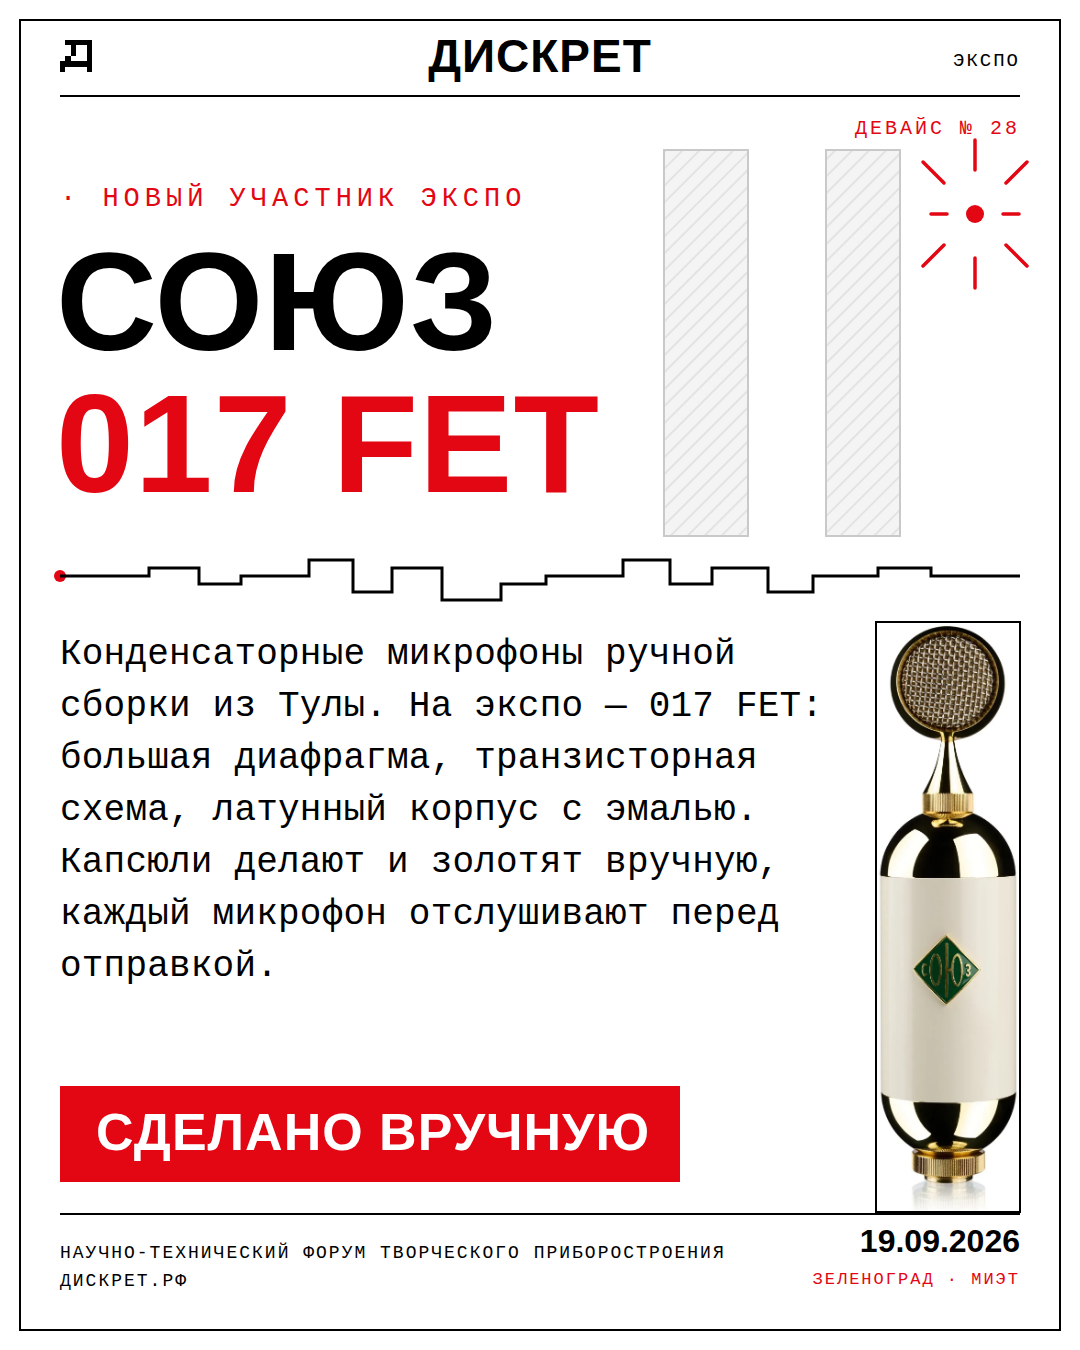
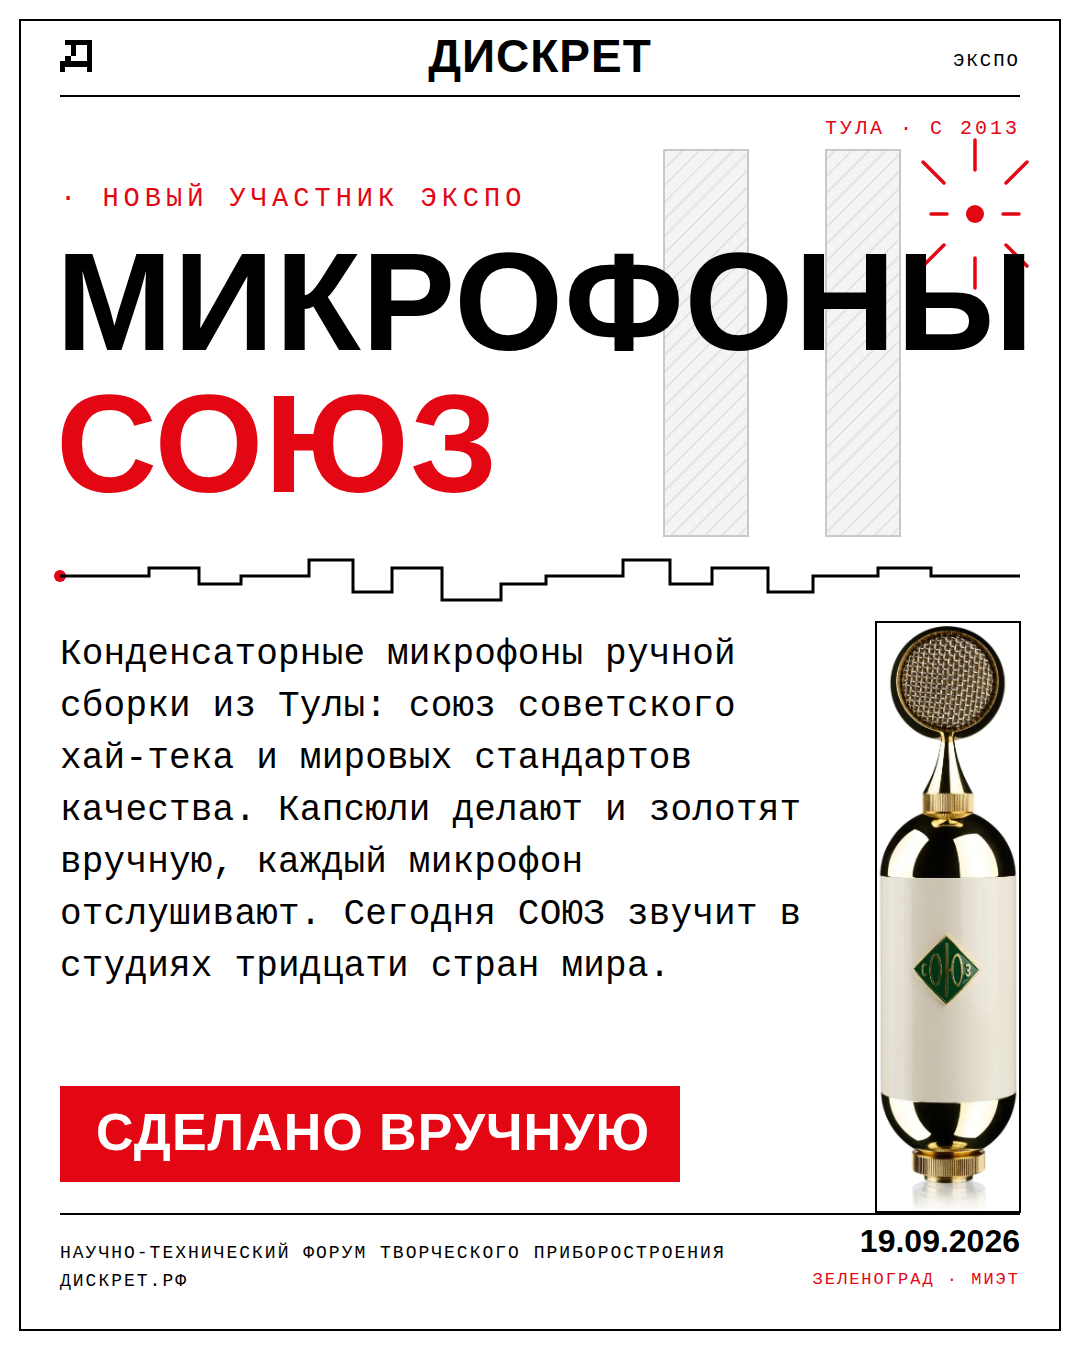
Афиша СОЮЗ: общая версия бренда без конкретной модели
Claude-Session: https://claude.ai/code/session_01J7cakNvVwscKzgnd8yf78u

diff --git a/branding/tools/gen_soyuz_card.js b/branding/tools/gen_soyuz_card.js
@@ -33,7 +33,7 @@ function shLine(){
 }
 // фото модуля: 914×2000 → колонка справа
 const PH = { x:876, y:622, w:144, h:590 };
-const body = wrap('Конденсаторные микрофоны ручной сборки из Тулы. На экспо — 017 FET: большая диафрагма, транзисторная схема, латунный корпус с эмалью. Капсюли делают и золотят вручную, каждый микрофон отслушивают перед отправкой.', 36)
+const body = wrap('Конденсаторные микрофоны ручной сборки из Тулы: союз советского хай-тека и мировых стандартов качества. Капсюли делают и золотят вручную, каждый микрофон отслушивают. Сегодня СОЮЗ звучит в студиях тридцати стран мира.', 36)
   .map((l,i)=>`<text x="60" y="${664+i*52}" font-family="'Courier New',monospace" font-size="36" letter-spacing="0.2" fill="#000">${esc(l)}</text>`).join('\n');
 
 const svg = `<svg xmlns="http://www.w3.org/2000/svg" xmlns:xlink="http://www.w3.org/1999/xlink" width="1080" height="1350" viewBox="0 0 1080 1350" fill="none" font-family="'Arial Narrow','Helvetica Neue',Arial,sans-serif">
@@ -53,7 +53,7 @@ const svg = `<svg xmlns="http://www.w3.org/2000/svg" xmlns:xlink="http://www.w3.
 <text x="540" y="72" text-anchor="middle" font-weight="800" font-size="46" letter-spacing="1" fill="#000">ДИСКРЕТ</text>
 <text x="1020" y="66" text-anchor="end" font-family="'Courier New',monospace" font-size="19" letter-spacing="2" fill="#000">ЭКСПО</text>
 <line x1="60" y1="96" x2="1020" y2="96" stroke="#000" stroke-width="2"/>
-<text x="1020" y="134" text-anchor="end" font-family="'Courier New',monospace" font-size="20" letter-spacing="3" fill="#E30613">ДЕВАЙС № 28</text>
+<text x="1020" y="134" text-anchor="end" font-family="'Courier New',monospace" font-size="20" letter-spacing="3" fill="#E30613">ТУЛА · С 2013</text>
 <g stroke="#c9c9c9" stroke-width="2">
   <rect x="664" y="150" width="84" height="386" fill="url(#th)"/>
   <rect x="826" y="150" width="74" height="386" fill="url(#th)"/>
@@ -66,8 +66,8 @@ const svg = `<svg xmlns="http://www.w3.org/2000/svg" xmlns:xlink="http://www.w3.
 </g>
 <circle cx="975" cy="214" r="9" fill="#E30613"/>
 <text x="60" y="206" font-family="'Courier New',monospace" font-size="27" letter-spacing="5" fill="#E30613">· НОВЫЙ УЧАСТНИК ЭКСПО</text>
-${headText('СОЮЗ', 350, '#000')}
-${headText('017 FET', 492, '#E30613')}
+${headText('МИКРОФОНЫ', 350, '#000')}
+${headText('СОЮЗ', 492, '#E30613')}
 ${shLine()}
 <image x="${PH.x}" y="${PH.y}" width="${PH.w}" height="${PH.h}" href="soyuz-photo.png" preserveAspectRatio="xMidYMid meet"/>
 <rect x="${PH.x}" y="${PH.y}" width="${PH.w}" height="${PH.h}" fill="none" stroke="#000" stroke-width="2"/>
